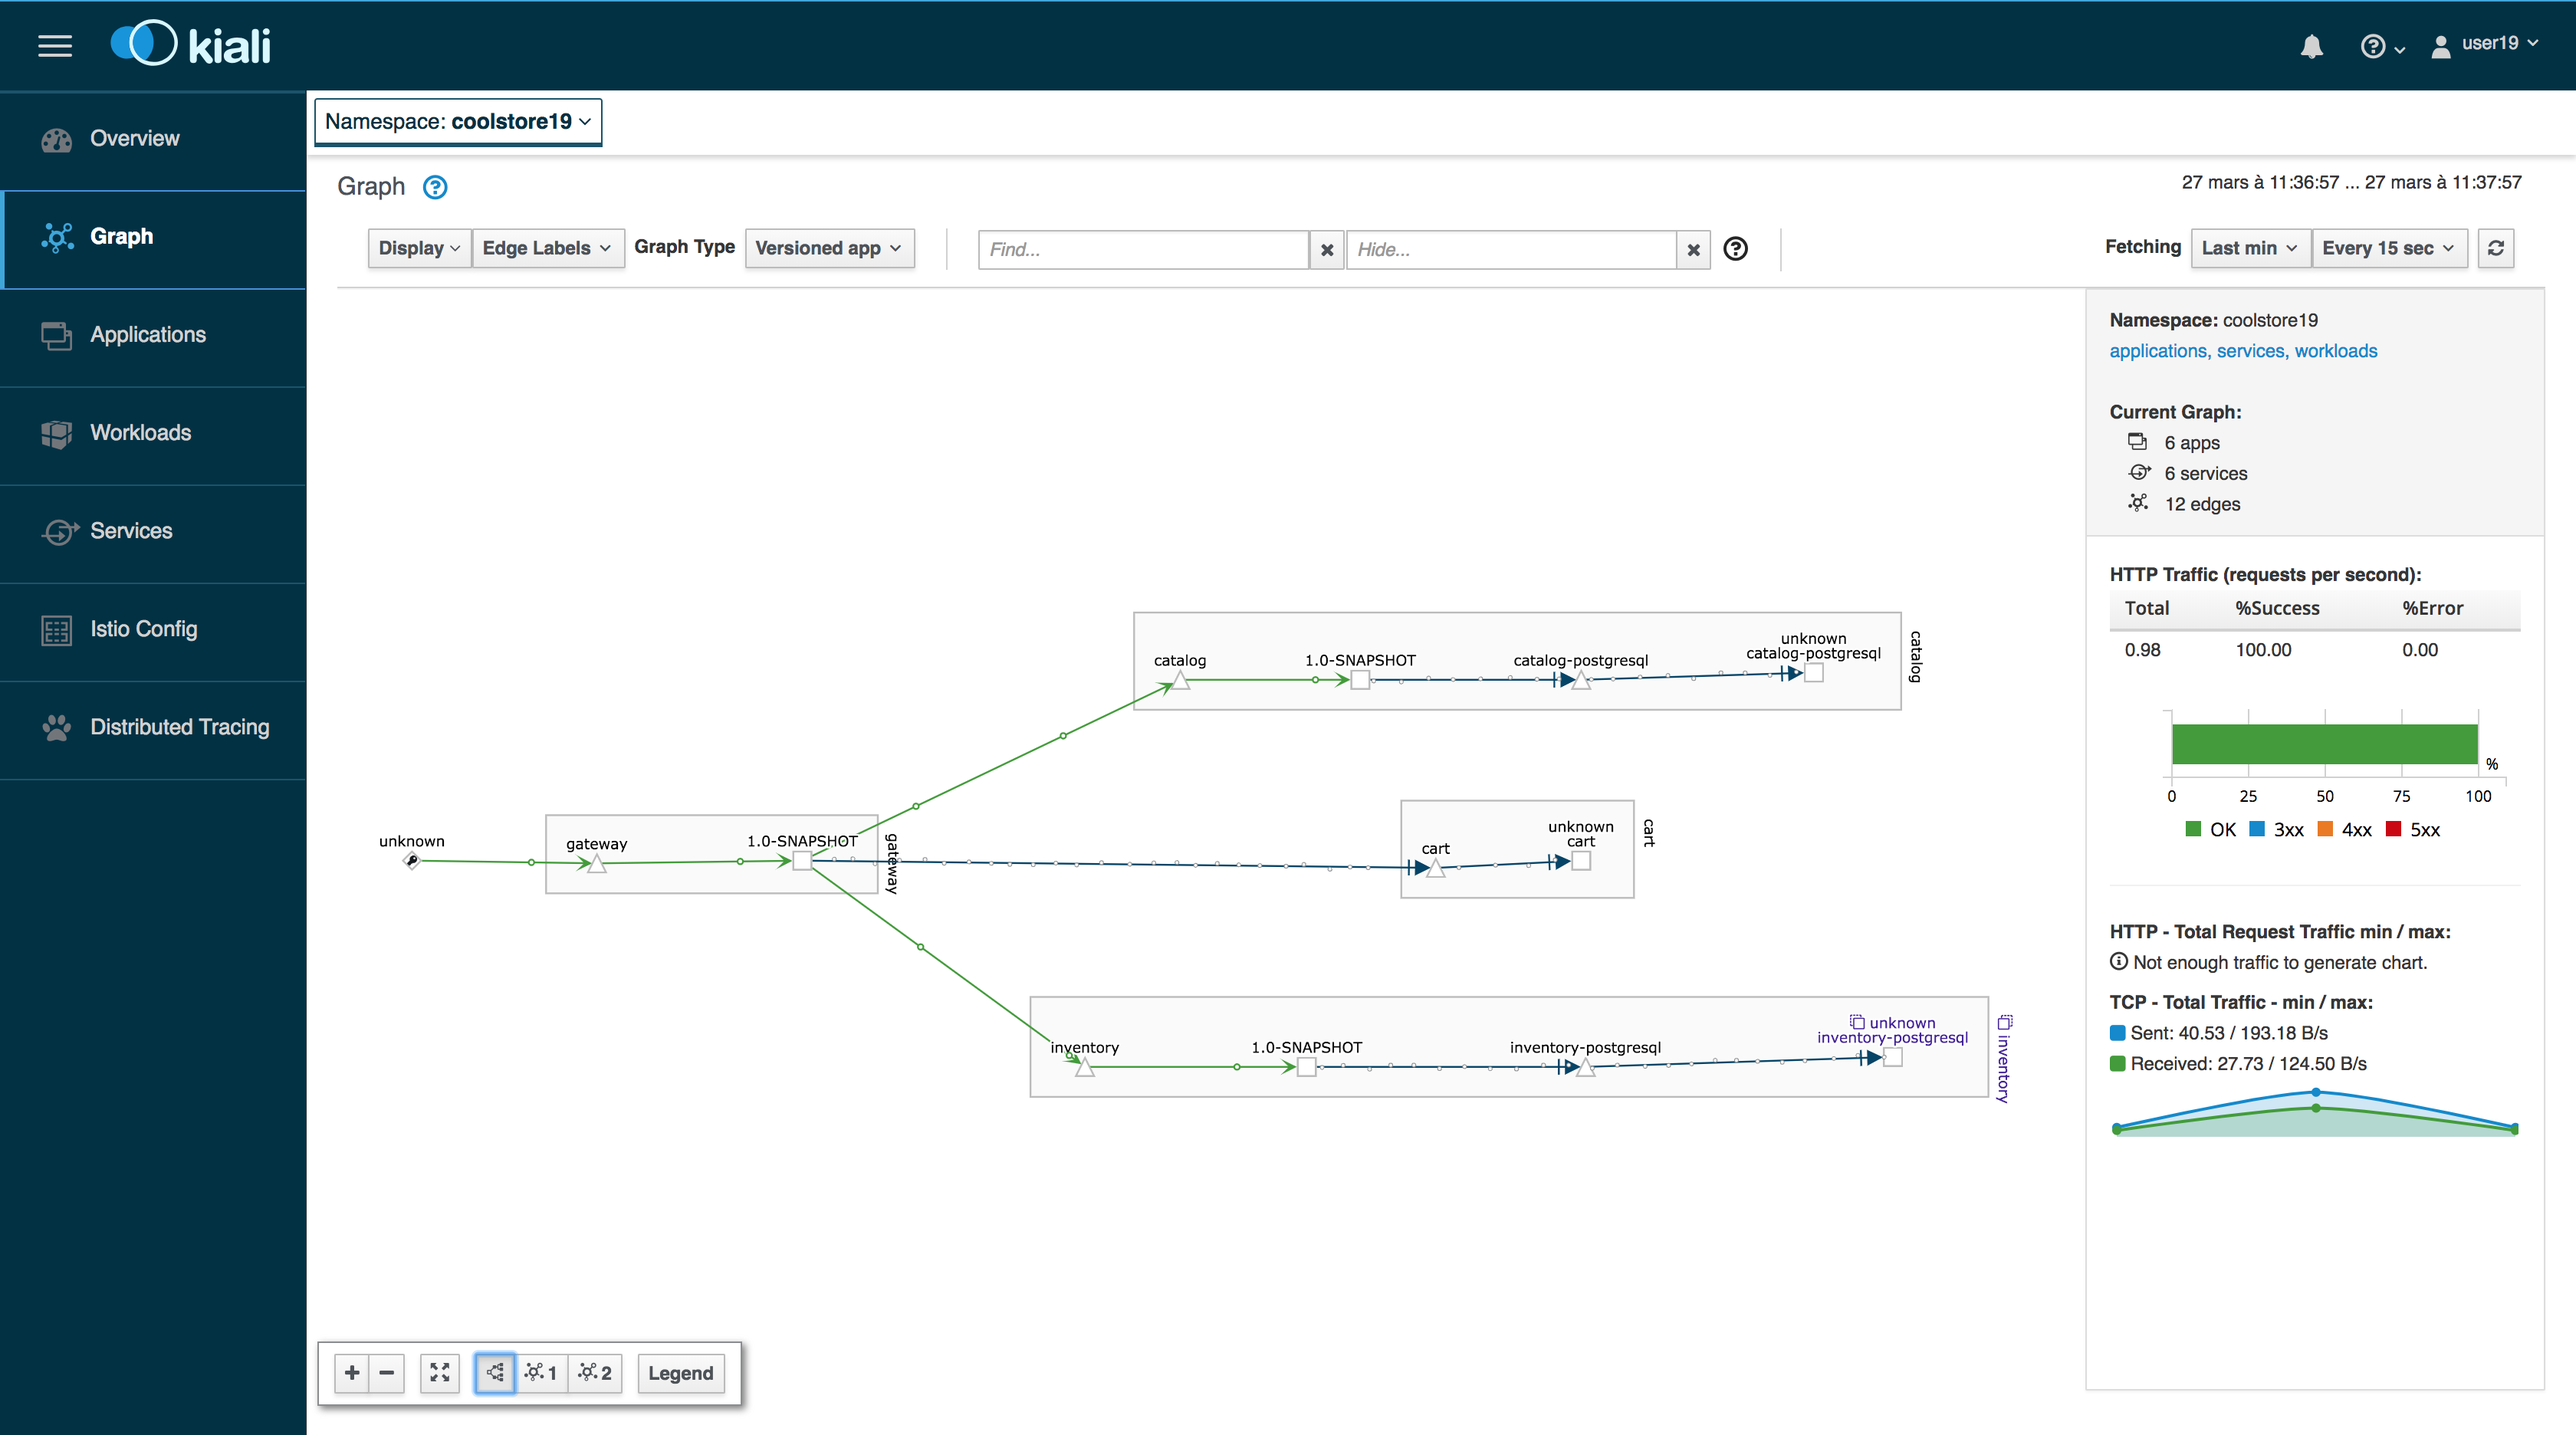
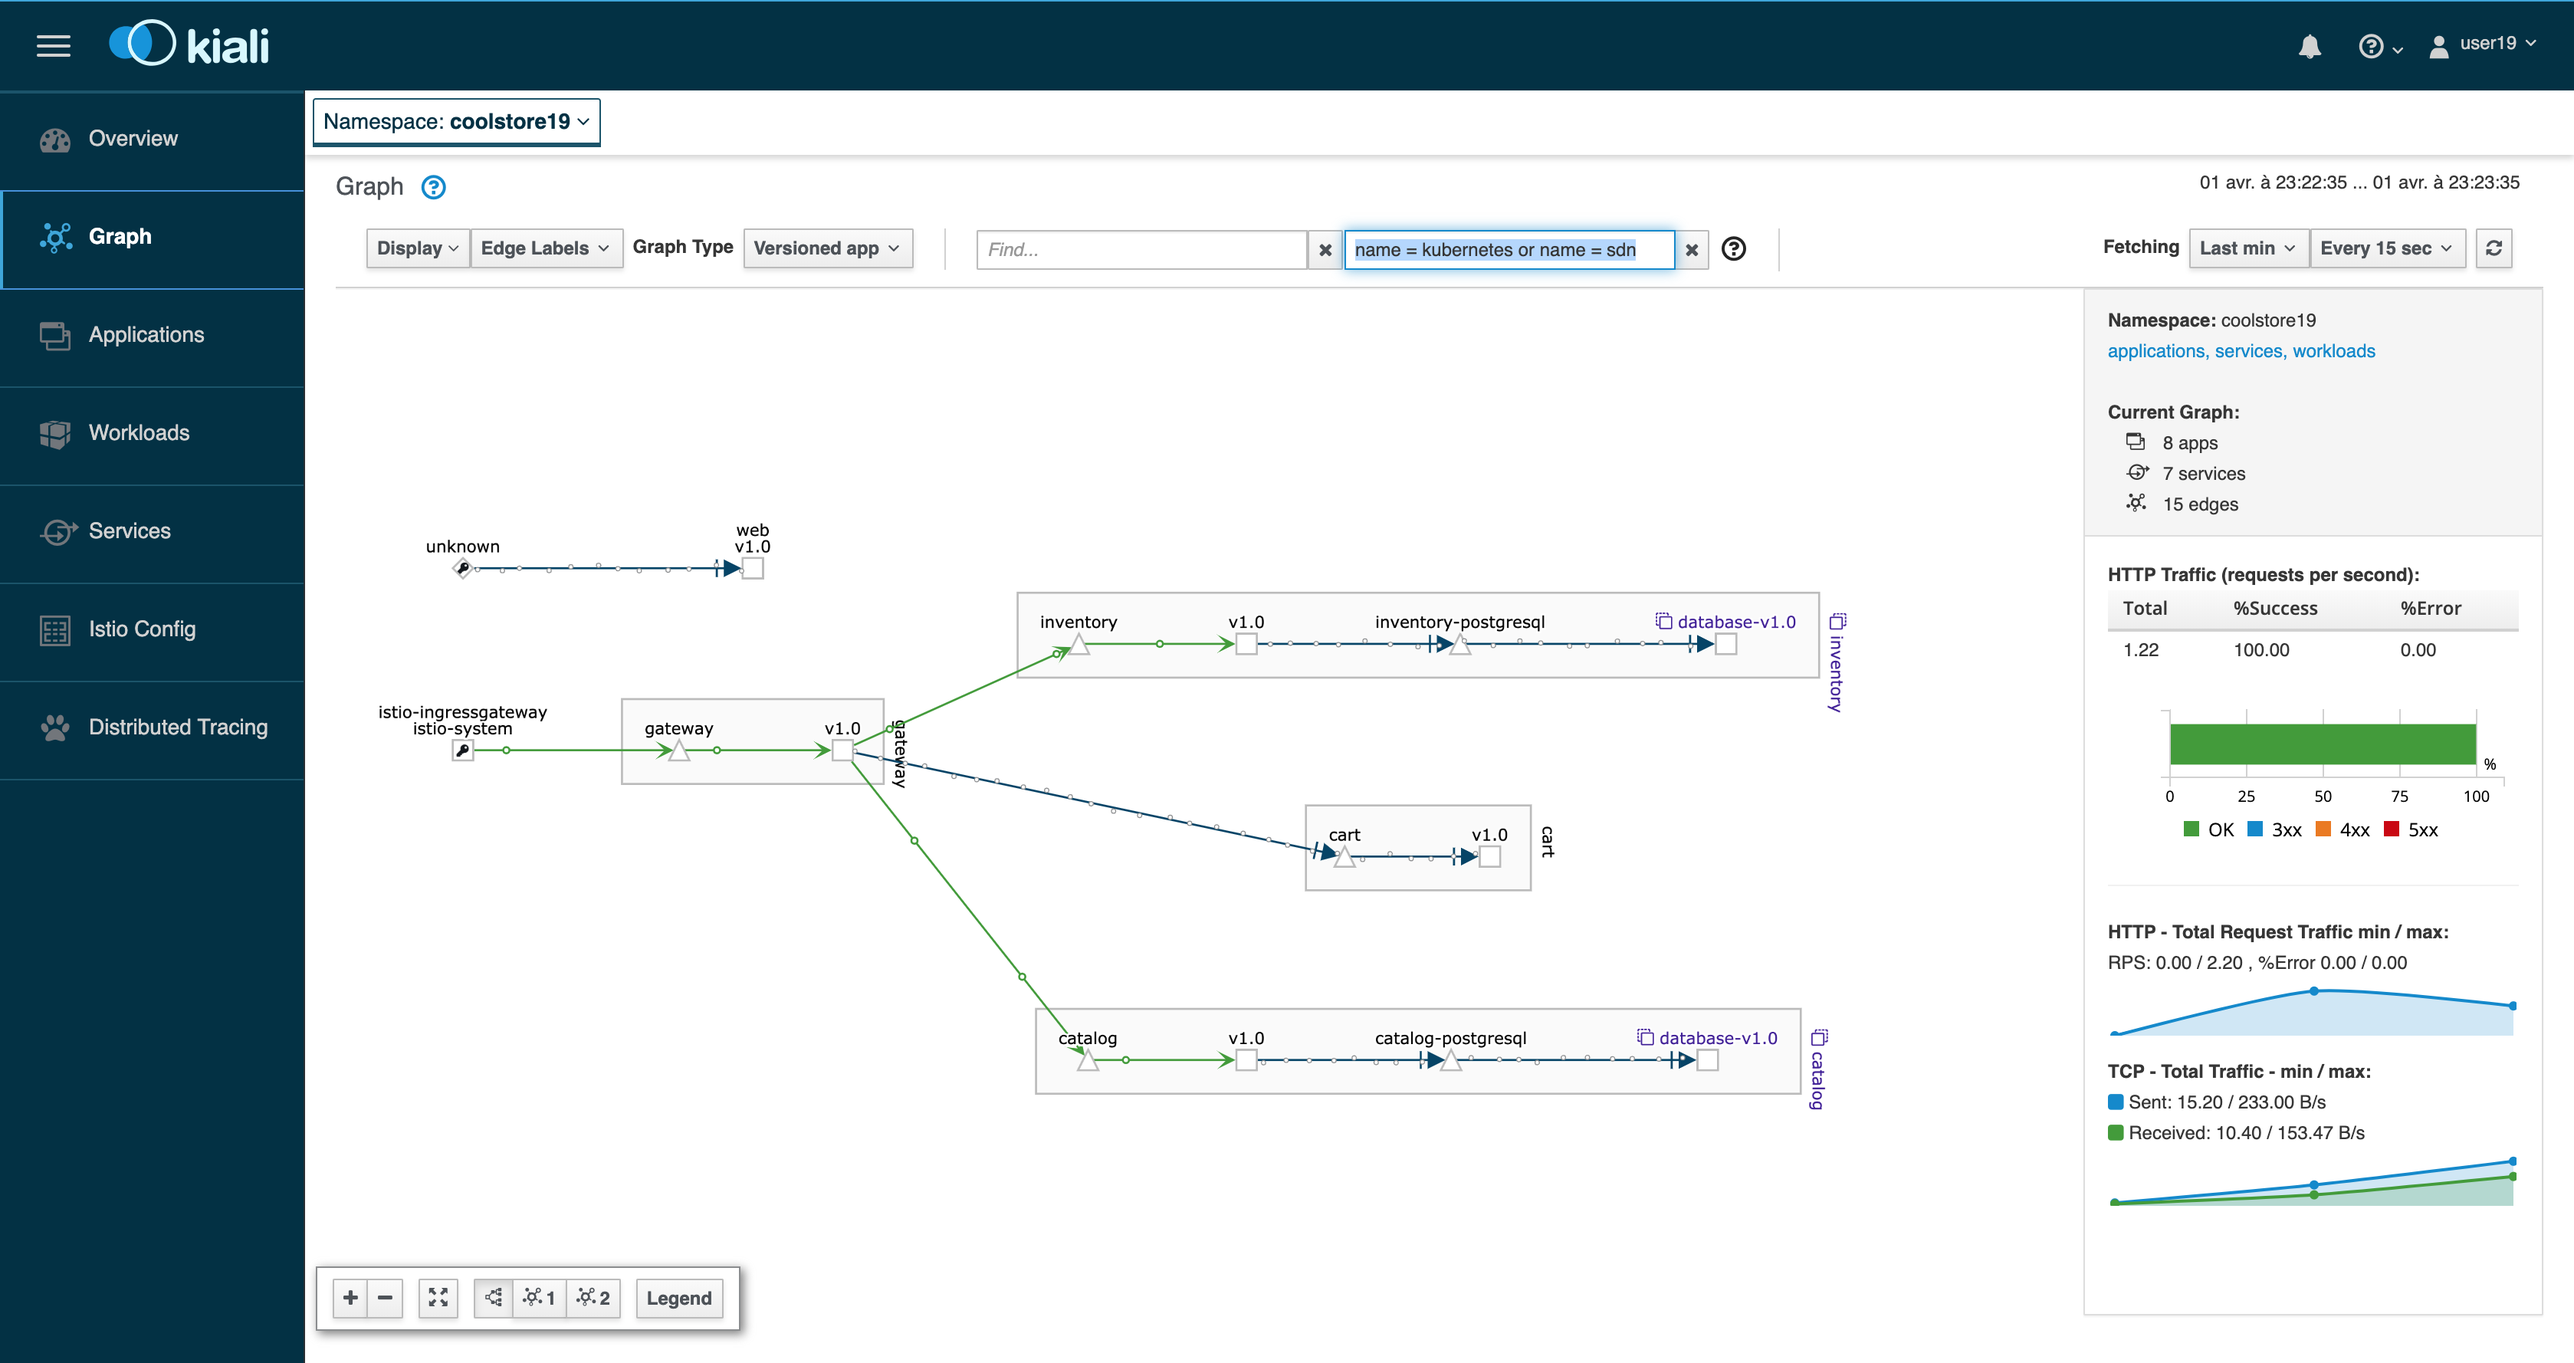
Updated Kiali instructions

diff --git a/instructions/kiali.md b/instructions/kiali.md
@@ -57,7 +57,7 @@ Click on the `{{COOLSTORE_PROJECT}}` project to be taken to the project overview
 which will list all of the routes, services, deployments, and pods that you have
 running as part of your project.
 
-Once successfully built, deployed and runned on Openshift, the *6 pods* of your application should be *all in Dark Blue* as following:
+Once successfully built, deployed and runned on Openshift, the **6 pods** of your application should be *all in Dark Blue* as following:
 
 ![oc login]({% image_path openshift-console-application.png%}){:width="500px"}
 
@@ -104,7 +104,7 @@ After you log in, click on the `Graph` link in the left navigation and enter the
 
 Even if the application *seemed* working fine, you can see from [Kiali Console]({{ KIALI_URL }}) ({{ KIALI_URL }}), there is a problem in the Gateway Service which sends a 4xx http error.
 
-![Kiali - 4xx]({% image_path kiali-4xx.png %}){:width="400px"}
+![Kiali - 4xx]({% image_path kiali-4xx.png %}){:width="300px"}
 
 Please open the Javascript Console from your browser, and you will find a 404 error when calling the `gateway/api/cart` API.
 
@@ -114,16 +114,32 @@ Indeed, when you check the APIs exposed by the gateway, you cannot find any `/ap
 
 Let's fix it!!
 
-#### Adding the Cart Service
+#### Build and deploy the Quarkus microservice, the Cart Service
+
+[Quarkus](https://quarkus.io/) is a Kubernetes Native Java stack tailored for GraalVM & OpenJDK HotSpot, crafted from the best of breed Java libraries and standards.
+
+* Architectured for running in serverless and container environments like Knative and OpenShift. 
+* Designed around a **container first philosophy**, what this means in real terms is that Quarkus is optimised for low memory usage and fast startup times.
+
+We already compiled the Cart Service application to a native executable called `cart-1.0-SNAPSHOT-runner`. You can find in the `cart-quarkus` project under the `src/target`folder. It improves the startup time of the `Cart Service`, and produces a minimal disk footprint. The executable would have everything to run the application including the "JVM" and the application.
+
+In this chapter, you will focus on creating a Docker image using the produced native executable.
+
+![Quarkus - Container]({% image_path containerization-process.png %}){:width="700px"}
+
+> If you want, take a moment to examine the source code of the Cart Service implemented with [Quarkus](https://quarkus.io/).
+> You can find it under the package `com.redhat.cloudnative` in the `src/main/java` directory of the `cart-quarkus` project.
+
+Execute the following commands in order to leverage the build mechanism of OpenShift
 
 ~~~bash
 # To build the image on OpenShift
-$ oc new-build --binary --name=cart -l app=cart
+$ oc new-build --binary --name=cart -lapp=cart
 $ oc patch bc/cart -p '{"spec":{"strategy":{"dockerStrategy":{"dockerfilePath":"src/main/docker/Dockerfile"}}}}'
-$ oc start-build cart --from-dir labs/cart-quarkus --follow
+$ oc start-build cart --from-dir /projects/labs/cart-quarkus --follow
 
 # To instantiate the image
-$ oc new-app --image-stream=cart:latest -l app=cart,version=1.0
+$ oc new-app --image-stream=cart:latest -lapp=cart,version=v1.0
 
 # To configure Catalog Service Deployment
 $ oc rollout pause dc/cart
@@ -135,20 +151,70 @@ $ oc rollout resume dc/cart
 $ oc expose svc cart
 ~~~
 
-![Openshift Console Cart]({% image_path console-cart.png %}){:width="700px"}
+![Openshift Console Cart]({% image_path console-cart.png %}){:width="500px"}
 
-#### Updating Gateway Service
+You need to see that!!! Access to the log of the `Cart Service` pod and admire its amazing fast boot time!!
+
+~~~bash
+2019-04-01 20:13:35,623 INFO  [io.quarkus] (main) Quarkus 0.11.0 started in 0.009s. Listening on: http://0.0.0.0:8080 
+2019-04-01 20:13:35,623 INFO  [io.quarkus] (main) Installed features: [cdi, resteasy, resteasy-jsonb, smallrye-rest-client]
+2019-04-01 20:17:08,790 INFO  [com.red.clo.ser.ShoppingCartService] (XNIO-1 task-1) Using local cache for cart data
+~~~ 
+
+**AND YES, IT'S A JAVA APPLICATION!**
+
+You can test the `Cart Service` is accessible via {{CART_ROUTE_HOST}} and click on `Test it`.
+
+![Cart Service]({% image_path cart-service.png %}){:width="500px"}
+
+#### Update Gateway Service
+
+Previously, we deployed the `Cart Service`. Now, you have to take it in account in the `Gateway Service`.
+Edit the `src/main/java/com/redhat/cloudnative/gateway/GatewayVerticle.java` class as following:
+
+First, add the WebClient attribute `cart` in the class `GatewayVerticle`
 
 ~~~java
-router.get("/api/cart/:cardId").handler(this::getCartHandler);
+    private WebClient catalog;
+    private WebClient inventory;
+    // Cart Attribute
+    private WebClient cart; 
+~~~
 
-// Cart lookup
+Then, define the route `/api/cart/:cardId` in the `start()` method
+
+~~~java
+        router.get("/health").handler(ctx -> ctx.response().end(new JsonObject().put("status", "UP").toString()));
+        router.get("/api/products").handler(this::products);
+        // Cart Route
+        router.get("/api/cart/:cardId").handler(this::getCartHandler);
+~~~
+
+Next, replace the `ServiceDiscovery.create` as following
+
+~~~java
+        ServiceDiscovery.create(vertx, discovery -> {
+            // Catalog lookup
+            Single<WebClient> catalogDiscoveryRequest = HttpEndpoint.rxGetWebClient(discovery,
+                    rec -> rec.getName().equals("catalog"))
+                    .onErrorReturn(t -> WebClient.create(vertx, new WebClientOptions()
+                            .setDefaultHost(System.getProperty("catalog.api.host", "localhost"))
+                            .setDefaultPort(Integer.getInteger("catalog.api.port", 9000))));
+
+            // Inventory lookup
+            Single<WebClient> inventoryDiscoveryRequest = HttpEndpoint.rxGetWebClient(discovery,
+                    rec -> rec.getName().equals("inventory"))
+                    .onErrorReturn(t -> WebClient.create(vertx, new WebClientOptions()
+                            .setDefaultHost(System.getProperty("inventory.api.host", "localhost"))
+                            .setDefaultPort(Integer.getInteger("inventory.api.port", 9001))));
+
+            // Cart lookup
             Single<WebClient> cartDiscoveryRequest = HttpEndpoint.rxGetWebClient(discovery,
                     rec -> rec.getName().equals("cart"))
                     .onErrorReturn(t -> WebClient.create(vertx, new WebClientOptions()
                             .setDefaultHost(System.getProperty("inventory.api.host", "localhost"))
                             .setDefaultPort(Integer.getInteger("inventory.api.port", 9002))));
-                            
+
             // Zip all 3 requests
             Single.zip(catalogDiscoveryRequest, inventoryDiscoveryRequest, cartDiscoveryRequest, 
                 (cg, i, ct) -> {
@@ -160,29 +226,33 @@ router.get("/api/cart/:cardId").handler(this::getCartHandler);
                         .requestHandler(router::accept)
                         .listen(Integer.getInteger("http.port", 8080));
                 }).subscribe();
+        });
+~~~
 
-private void getCartHandler(RoutingContext rc) {
+Finally, add the `getCartHandler` method in the `GatewayVerticle` class.
+
+~~~java
+    private void getCartHandler(RoutingContext rc) {
         String cardId = rc.request().getParam("cardId");
         
-        // Retrieve catalog
-        TracingInterceptor.propagate(cart, rc)
-            .get("/api/cart/" + cardId)
-            .as(BodyCodec.jsonObject())
-            .rxSend()
-            .subscribe(
-                resp -> {
-                    if (resp.statusCode() != 200) {
-                        new RuntimeException("Invalid response from the cart: " + resp.statusCode());
-                    }
-                    rc.response().end(Json.encodePrettily(resp.body()));
-                },
-                error -> rc.response().end(new JsonObject().put("error", error.getMessage()).toString())
-            );
-    }
+        // Retrieve cart
+        cart
+        .get("/api/cart/" + cardId)
+        .as(BodyCodec.jsonObject())
+        .rxSend()
+        .subscribe(
+            resp -> {
+                if (resp.statusCode() != 200) {
+                    new RuntimeException("Invalid response from the cart: " + resp.statusCode());
+                }
+                rc.response().end(Json.encodePrettily(resp.body()));
+            },
+            error -> rc.response().end(new JsonObject().put("error", error.getMessage()).toString())
+        );
     }
 ~~~
 
-Push the updated version
+Use the OpenShift CLI command to start a new build and deployment for the update `Gateway Service`:
 
 ~~~shell
 $ oc start-build gateway-s2i --from-dir labs/gateway-vertx/ --follow
